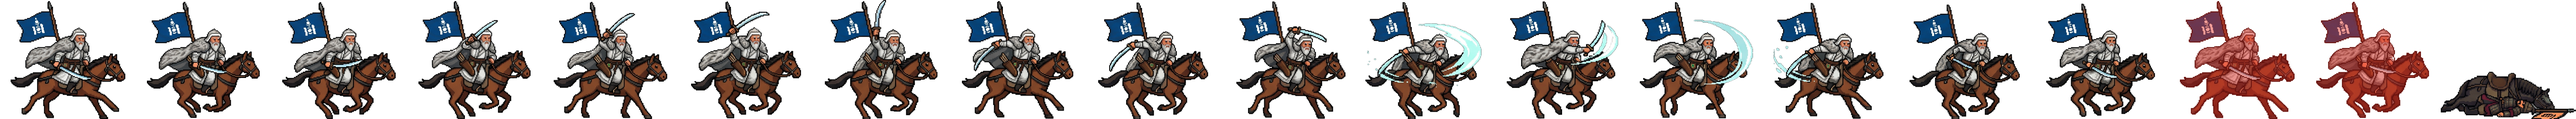
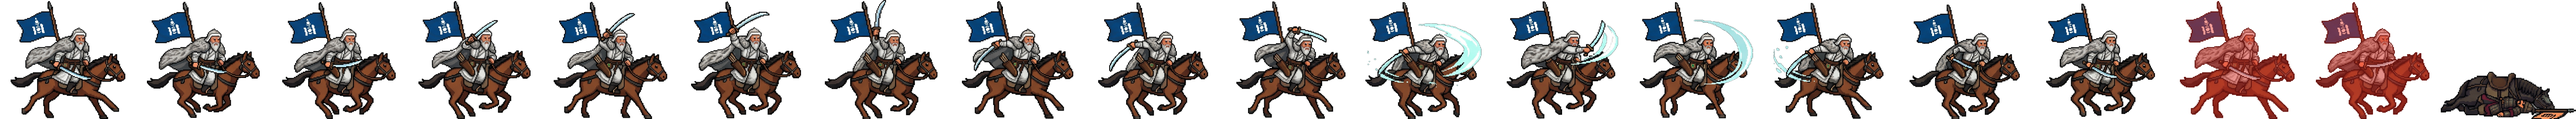
Gentle gallop sword sway for the rider and enemy
Both skins gallop on frames 1-3. tools/pixel_sheets.py now gives the
rider's frames 2-3 its frame-1 blade tilted up a little, and lends the
enemy's sword-less ride frames 2 and 4 a slightly tilted copy of frames
1 and 3's blade, so the sword sways like the Khan's.

Changed region(s): [[0.9034, 0.2462, 0.9657, 0.7077], [0.9034, 0.7692, 0.9346, 0.9538]]

diff --git a/game.js b/game.js
@@ -22,9 +22,10 @@ const RIDER = [380, GROUND], IMPACT = [600, GROUND - 225];
 const ENEMY_SCALE = 1.05, MELEE_X = 720, RIDE = 210, DASH = 700, OFFSCREEN = W + 260;
 const SWING_COOLDOWN = 0.35, SQUAT_COOLDOWN = 1.5, CAM_LAG = 0.3;
 // cells of Rider_PA_Sheet and Khan_PA_Sheet (tools/pixel_sheets.py)
-const CELL = { gallop: [0, 1, 2, 3, 4], slash: [9, 10, 11, 12, 13, 14], hurt: [16, 17], fallen: 18 }, RIDER_SCALE = 1.2;
-// [sheet, cell w, cell h]; the Khan skin is behind a temporary debug button
-const SKINS = { rider: ['Rider_PA_Sheet', 370, 320], khan: ['Khan_PA_Sheet', 370, 325] };
+const CELL = { slash: [9, 10, 11, 12, 13, 14], hurt: [16, 17], fallen: 18 }, RIDER_SCALE = 1.2;
+// [sheet, cell w, cell h, gallop cells]; the Khan skin is behind a temporary debug button.
+// Both gallop on frames 1-3; frames 4-5 swing the sword arm too much for riding.
+const SKINS = { rider: ['Rider_PA_Sheet', 370, 320, [0, 1, 2]], khan: ['Khan_PA_Sheet', 370, 325, [0, 1, 2]] };
 let skin = SKINS.rider;
 const GOLD = '#e8c27a', RED = '#ff6b4a', BLUE = '#9fd3ff', PALE = '#cdb88f';
 
@@ -630,7 +631,7 @@ function drawRider() {
   const stride = eighth();
   const cell = game.hurt > 0 ? CELL.hurt[game.hurt > HURT - 0.15 ? 0 : 1]
     : game.slash > 0 ? CELL.slash[Math.min(CELL.slash.length - 1, Math.floor((sinceSlash / SLASH) * CELL.slash.length))]
-    : CELL.gallop[Math.floor(stride * CELL.gallop.length)];
+    : skin[3][Math.floor(stride * skin[3].length)];
   riderCell(cell, 1, knock, -5 * Math.sin(stride * 2 * Math.PI));
 }
 

diff --git a/tools/pixel_sheets.py b/tools/pixel_sheets.py
@@ -80,12 +80,128 @@ enemy_a = frames("PA Enemy Horseman Extra", "Enemy Horseman Extra", 12)
 # set 2 is drawn about 9% larger than set 1; shrink it to match
 enemy_b = [scaled(f, 317 / 345) for f in frames("PA Enemy Horseman Extra", "Enemy Horseman Extra 2", 12)]
 # 16 cells per skin: frames 1-16 (1-5 gallop, 6-10 wind up, 11-15 slash, 16 recover),
-# then 17-18 hurt (frames 1, 2 flushed red) and 19 fallen (the enemy's dead horse)
+# then 17-18 hurt (frames 1, 3 flushed red) and 19 fallen (the enemy's dead horse)
 for folder, name, out in [("PA Mongol Horseman Extra", "Mongol Horseman Extra", "Rider_PA_Sheet.png"),
                           ("PA Chingis Khaan", "Chingis Khaan", "Khan_PA_Sheet.png")]:
     hero = frames(folder, name, 16)
-    sheet([(f, True) for f in hero] + [(hurt(hero[0]), True), (hurt(hero[1]), True), (enemy_b[11], False)], out)
+    sheet([(f, True) for f in hero] + [(hurt(hero[0]), True), (hurt(hero[2]), True), (enemy_b[11], False)], out)
 # 0-3 ride, 4-6 raise the sword, 7-8 slash and follow through, 9-10 hit, 11 falls, 12 lies dead
 sheet([(f, True) for f in [enemy_a[4], enemy_a[5], enemy_b[4], enemy_b[5], enemy_b[1], enemy_b[2], enemy_b[3],
                            enemy_b[6], enemy_b[7], enemy_b[8], enemy_b[9]]]
       + [(enemy_b[10], False), (enemy_b[11], False)], "Enemy_PA_Sheet.png")
+
+
+# Blade fixes, made on the packed sheets. Boxes are (x0, y0, x1, y1) inside a cell.
+def steel(a, outline=1):
+    """The sword blade: pale, blue-leaning pixels, with an outline this many pixels wide around them."""
+    m = (a[..., :3].min(-1) > 110) & (a[..., 2].astype(int) >= a[..., 0].astype(int) + 5) & (a[..., 3] > 200)
+    for _ in range(outline):
+        grown = m.copy()
+        for dy, dx in ((0, 1), (0, -1), (1, 0), (-1, 0)):
+            grown |= np.roll(m, (dy, dx), (0, 1))
+        m = grown
+    return m & (a[..., 3] > 0)
+
+
+def bob(a, cw, src, dst, head):
+    """How far the rider sits from cell src to cell dst: the shift that best lines up their heads."""
+    x0, y0, x1, y1 = head
+    ref = a[y0:y1, src * cw + x0:src * cw + x1].astype(int)
+    return min(((dx, dy) for dx in range(-8, 9) for dy in range(-8, 9)),
+               key=lambda d: np.abs(a[y0 + d[1]:y1 + d[1], dst * cw + x0 + d[0]:dst * cw + x1 + d[0]].astype(int) - ref).sum())
+
+
+def blade(a, cw, src, dst, box, head):
+    """Copies the blade in box from cell src onto cell dst, moved with the rider."""
+    dx, dy = bob(a, cw, src, dst, head)
+    x0, y0, x1, y1 = box
+    part = a[y0:y1, src * cw + x0:src * cw + x1]
+    m = steel(part)
+    a[y0 + dy:y1 + dy, dst * cw + x0 + dx:dst * cw + x1 + dx][m] = part[m]
+
+
+def erase(a, cw, cell, box, fill):
+    """Removes the blade in box from cell, showing cell fill's pixels there instead (where fill has no blade)."""
+    x0, y0, x1, y1 = box
+    here, under = a[y0:y1, cell * cw + x0:cell * cw + x1], a[y0:y1, fill * cw + x0:fill * cw + x1].copy()
+    m = steel(here, 3)  # wide enough to take the old blade's dark edge too
+    under[steel(under)] = 0
+    here[m] = under[m]
+
+
+def clear(a, cw, cell, box):
+    """Empties box in cell except for its blade: for open sky where stray outline pixels are left."""
+    x0, y0, x1, y1 = box
+    here = a[y0:y1, cell * cw + x0:cell * cw + x1]
+    here[~steel(here)] = 0
+
+
+def largest(m):
+    """Only the biggest connected patch of m: the blade, without stray pale pixels nearby."""
+    seen, best = np.zeros_like(m), []
+    for y, x in zip(*np.nonzero(m)):
+        if seen[y, x]:
+            continue
+        seen[y, x], todo, patch = True, [(y, x)], []
+        while todo:
+            cy, cx = todo.pop()
+            patch.append((cy, cx))
+            for ny, nx in ((cy + 1, cx), (cy - 1, cx), (cy, cx + 1), (cy, cx - 1)):
+                if 0 <= ny < m.shape[0] and 0 <= nx < m.shape[1] and m[ny, nx] and not seen[ny, nx]:
+                    seen[ny, nx] = True
+                    todo.append((ny, nx))
+        best = max(best, patch, key=len)
+    out = np.zeros_like(m)
+    out[tuple(np.array(best).T)] = True
+    return out
+
+
+def hilt(a, key):
+    """Where the blade meets the hand: the end of the blade that key picks out (smallest key wins)."""
+    ys, xs = np.nonzero(steel(a, 0))
+    i = np.argmin(key(xs, ys))
+    return xs[i], ys[i]
+
+
+def sway(a, cw, src, box, key, plan, head, grip=None, sky=None):
+    """Gives each cell in plan the blade from cell src, tilted up by its angle (degrees) about the hand.
+    plan: (cell, angle). A cell with a blade of its own has it erased (showing cell src's pixels there)
+    and its hand is found at the end of that blade that grip picks out; a cell without one has its
+    hand where src's is, moved by how far the rider bobs. sky: a box of open air to wipe of old-blade bits."""
+    x0, y0, x1, y1 = box
+    region = lambda k: a[y0:y1, k * cw + x0:k * cw + x1]
+    part = region(src).copy()
+    m, (sx, sy) = largest(steel(part)), hilt(part, key)
+    sword = Image.fromarray(np.where(m[..., None], part, 0).astype(np.uint8))
+    hands = {}
+    for k, _ in plan:  # find every hand before anything is erased
+        if steel(region(k), 0).any():
+            hands[k] = hilt(region(k), grip or key)
+            erase(a, cw, k, box, src)
+            if sky:
+                sx0, sy0, sx1, sy1 = sky
+                a[sy0:sy1, k * cw + sx0:k * cw + sx1] = 0
+        else:
+            dx, dy = bob(a, cw, src, k, head)
+            hands[k] = sx + dx, sy + dy
+    for k, angle in plan:
+        r = np.array(sword.rotate(angle, resample=Image.NEAREST, center=(int(sx), int(sy))))
+        hx, hy = hands[k]
+        ys, xs = np.nonzero(r[..., 3])
+        a[y0 + ys + hy - sy, k * cw + x0 + xs + hx - sx] = r[ys, xs]
+
+
+def patch(name, cw, fix):
+    a = np.array(Image.open(DIR / name))
+    fix(a, cw)
+    Image.fromarray(a).save(DIR / name, optimize=True)
+
+
+# The gallop sword sways a little, like the Khan's: a blade tilted up a few degrees a frame about the hand.
+# The enemy's frames 2 and 4 have no sword of their own; they get frames 1 and 3's, tilted.
+patch("Enemy_PA_Sheet.png", 386, lambda a, cw: (sway(a, cw, 0, (140, 150, 280, 228), lambda x, y: x + y, [(1, 4)], (200, 95, 250, 135)),
+                                                sway(a, cw, 2, (140, 150, 280, 228), lambda x, y: x + y, [(3, 4)], (200, 95, 250, 135))))
+# The rider gallops on frames 1-3 with frame 1's low blade; frames 2 and 3 held theirs up and out, so those
+# are erased, and the hand is at the blade's lower-left end.
+patch("Rider_PA_Sheet.png", 370, lambda a, cw: sway(a, cw, 0, (140, 110, 310, 222), lambda x, y: x + y, [(1, 8), (2, 16)],
+                                                    (195, 85, 250, 135), grip=lambda x, y: x - y, sky=(245, 100, 320, 148)))
